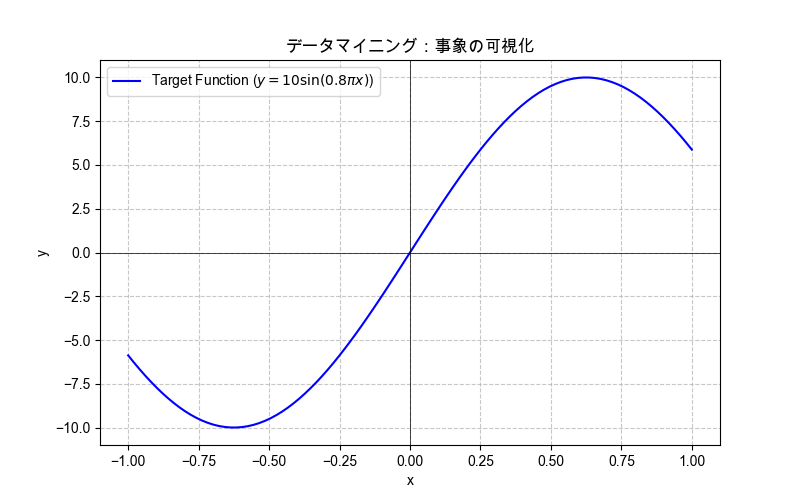
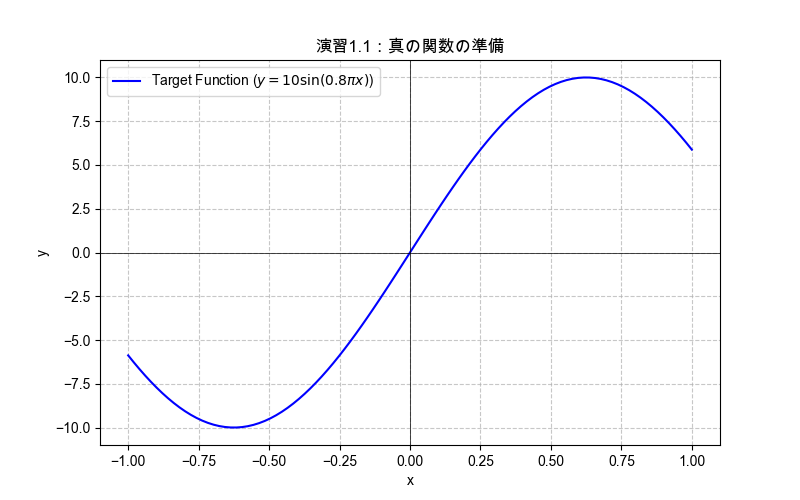
implement exercises1.3

Changed region(s): [[0.3438, 0.06, 0.6562, 0.12]]

diff --git a/info3dm_3/fitting/dataset1.py b/info3dm_3/fitting/dataset1.py
@@ -41,7 +41,7 @@ if __name__=='__main__':
 
     plt.figure(figsize=(8, 5))
     plt.plot(x, y, label=r'Target Function ($y = 10\sin(0.8\pi x)$)', color='blue')
-    plt.title('データマイニング：事象の可視化')
+    plt.title('演習1.1：真の関数の準備')
     plt.xlabel('x')
     plt.ylabel('y')
     plt.axhline(0, color='black', linewidth=0.5)
@@ -71,11 +71,40 @@ if __name__=='__main__':
     plt.figure(figsize=(8, 5))
     plt.plot(x, y, label=r'Target Function ($y = 10\sin(0.8\pi x)$)', color='blue')
     plt.scatter(df['観測点'], df['真値'], color='red', s=40, edgecolors='black', label='サンプル集合 (n=20)', zorder=3)
-    plt.title('演習1.2: 観測点と真値のプロット')
+    plt.title('演習1.2：観測点と真値の準備')
     plt.xlabel('観測点 (x)')
     plt.ylabel('真値 (y)')
+    plt.axhline(0, color='black', linewidth=0.5)
+    plt.axvline(0, color='black', linewidth=0.5)
     plt.legend()
-    plt.grid(True, linestyle=':', alpha=0.6)
+    plt.grid(True, linestyle='--', alpha=0.7)
 
     save_path = os.path.join(save_dir, 'ex1.2.png')
+    plt.savefig(save_path)
+
+
+    print()
+
+    # --- exercises1.3 ---
+
+    print("exercises1.3")
+
+    noise_raw = np.random.normal(loc=0.0, scale=np.sqrt(2.0), size=20)
+    noise_half = noise_raw * 0.5
+    df['観測値'] = df['真値'] + noise_half
+
+    plt.figure(figsize=(8, 5))
+    x_line = np.linspace(-1, 1, 100)
+    plt.plot(x, y, label=r'Target Function ($y = 10\sin(0.8\pi x)$)', color='blue')
+    plt.scatter(df['観測点'], df['真値'], color='red', s=40, edgecolors='black', label='サンプル集合 (n=20)', zorder=3)
+    plt.scatter(df['観測点'], df['観測値'], color='green', marker='x', s=40, label='観測値 (Noisy Data)')
+    plt.title('ノイズを付与した観測値の準備')
+    plt.xlabel('観測点 (x)')
+    plt.ylabel('y')
+    plt.axhline(0, color='black', linewidth=0.5)
+    plt.axvline(0, color='black', linewidth=0.5)
+    plt.legend()
+    plt.grid(True, linestyle='--', alpha=0.7)
+
+    save_path = os.path.join(save_dir, 'ex1.3.png')
     plt.savefig(save_path)
